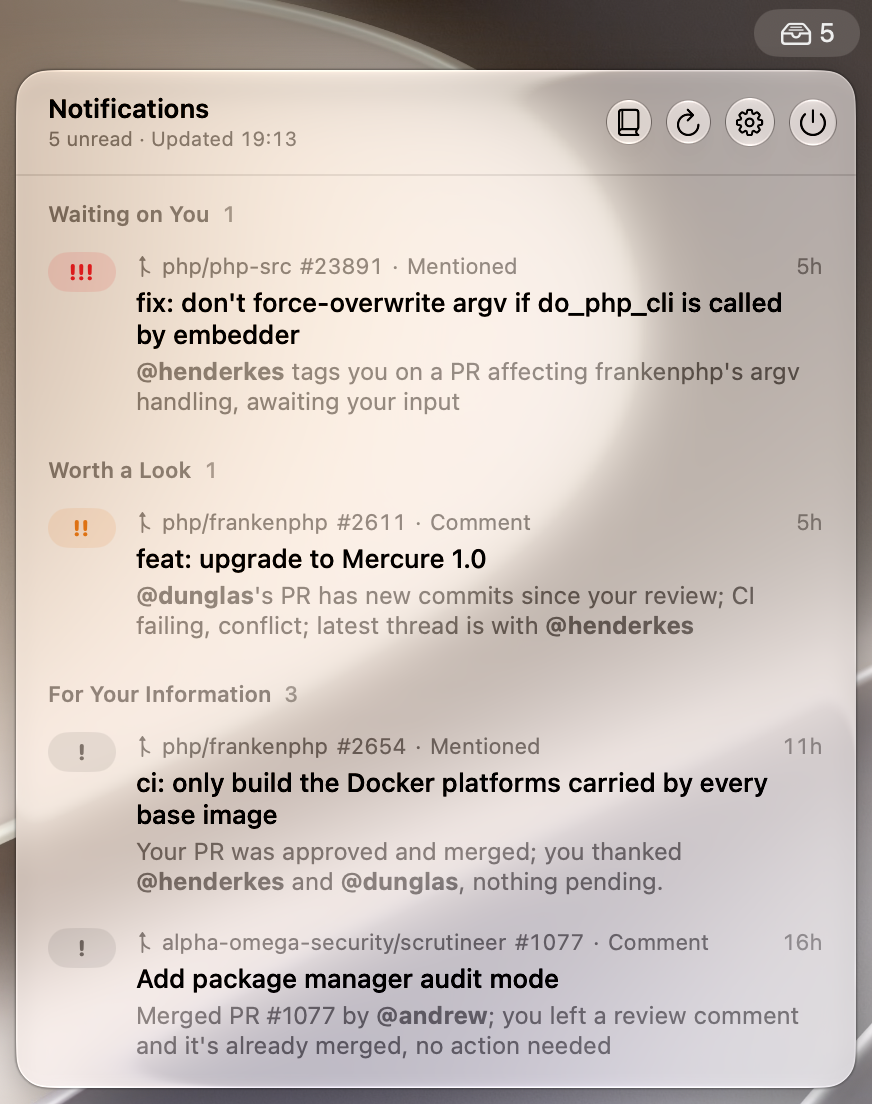
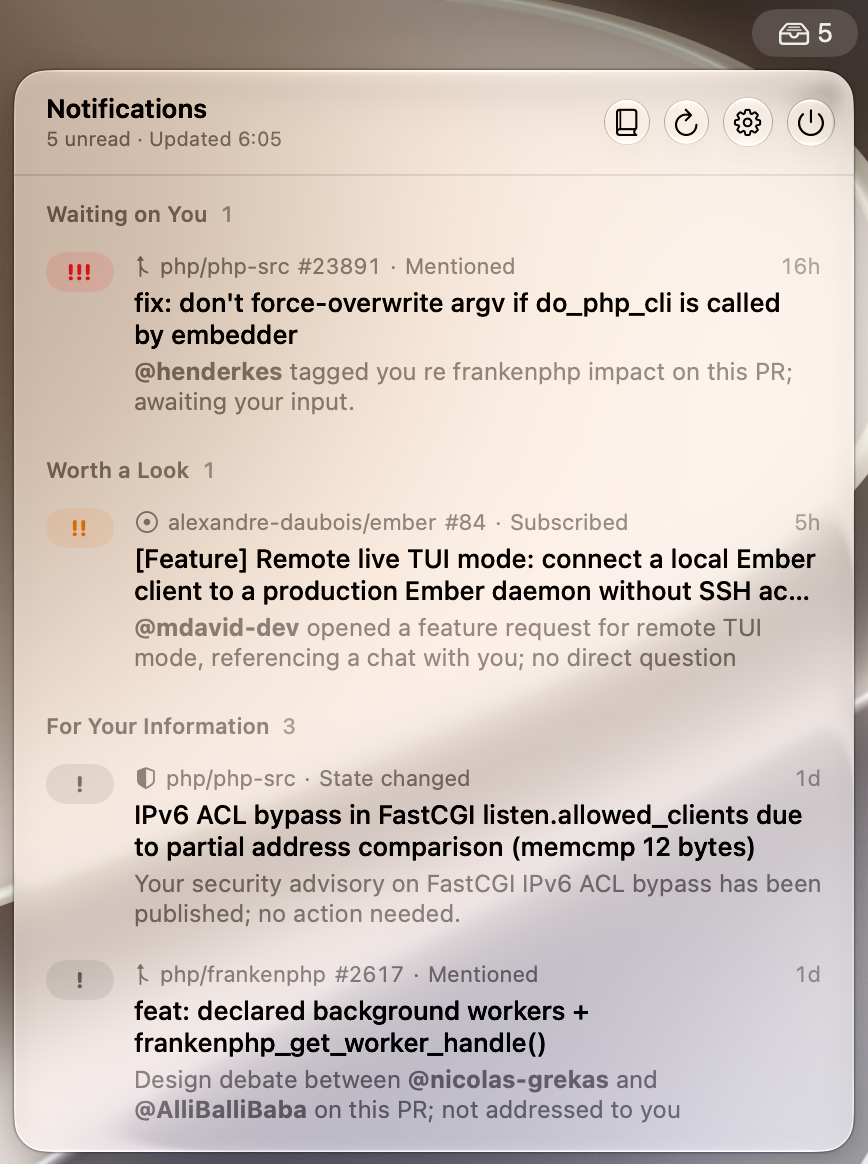
Close the popover when opening a notification and flag it as last viewed

diff --git a/Sources/Atbang/NotificationList.swift b/Sources/Atbang/NotificationList.swift
@@ -8,6 +8,7 @@ struct NotificationList: View {
 
     let model: AppModel
     @Binding var rowBottoms: [String: CGFloat]
+    @Environment(\.dismiss) private var dismiss
 
     var body: some View {
         if model.items.isEmpty {
@@ -25,7 +26,11 @@ struct NotificationList: View {
                                 NotificationRow(
                                     item: item,
                                     showsRepository: !model.groupsByRepository,
-                                    open: { model.open(item) },
+                                    isLastViewed: model.lastViewedID == item.id,
+                                    open: {
+                                        model.open(item)
+                                        dismiss()
+                                    },
                                     markAsDone: { Task { await model.markAsDone(item) } },
                                     isExpanded: model.expandedIDs.contains(item.id),
                                     showDetails: { Task { await model.showDetails(item) } }
@@ -123,6 +128,7 @@ private struct SectionHeader: View {
 struct NotificationRow: View {
     let item: TriageItem
     let showsRepository: Bool
+    let isLastViewed: Bool
     let open: () -> Void
     let markAsDone: () -> Void
     let isExpanded: Bool
@@ -229,6 +235,11 @@ struct NotificationRow: View {
                 Text("·")
             }
             Text(reason).lineLimit(1)
+            if isLastViewed {
+                Text("• Last viewed")
+                    .foregroundStyle(.tint)
+                    .lineLimit(1)
+            }
             if case let .failed(message) = item.status {
                 Image(systemName: "exclamationmark.triangle.fill")
                     .foregroundStyle(.orange)

diff --git a/Sources/Atbang/AppModel.swift b/Sources/Atbang/AppModel.swift
@@ -13,6 +13,7 @@ final class AppModel {
     private(set) var isRefreshing = false
     private(set) var lastRefresh: Date?
     private(set) var error: String?
+    private(set) var lastViewedID: String?
     /// Rows showing their longer explanation. Not persisted, and reset whenever the popover closes.
     private(set) var expandedIDs: Set<String> = []
     private(set) var requirements: [Requirement] = []
@@ -90,6 +91,7 @@ final class AppModel {
 
     func open(_ item: TriageItem) {
         guard item.htmlURL.scheme == "https", item.htmlURL.host() == "github.com" else { return }
+        lastViewedID = item.id
         NSWorkspace.shared.open(item.htmlURL)
     }
 
